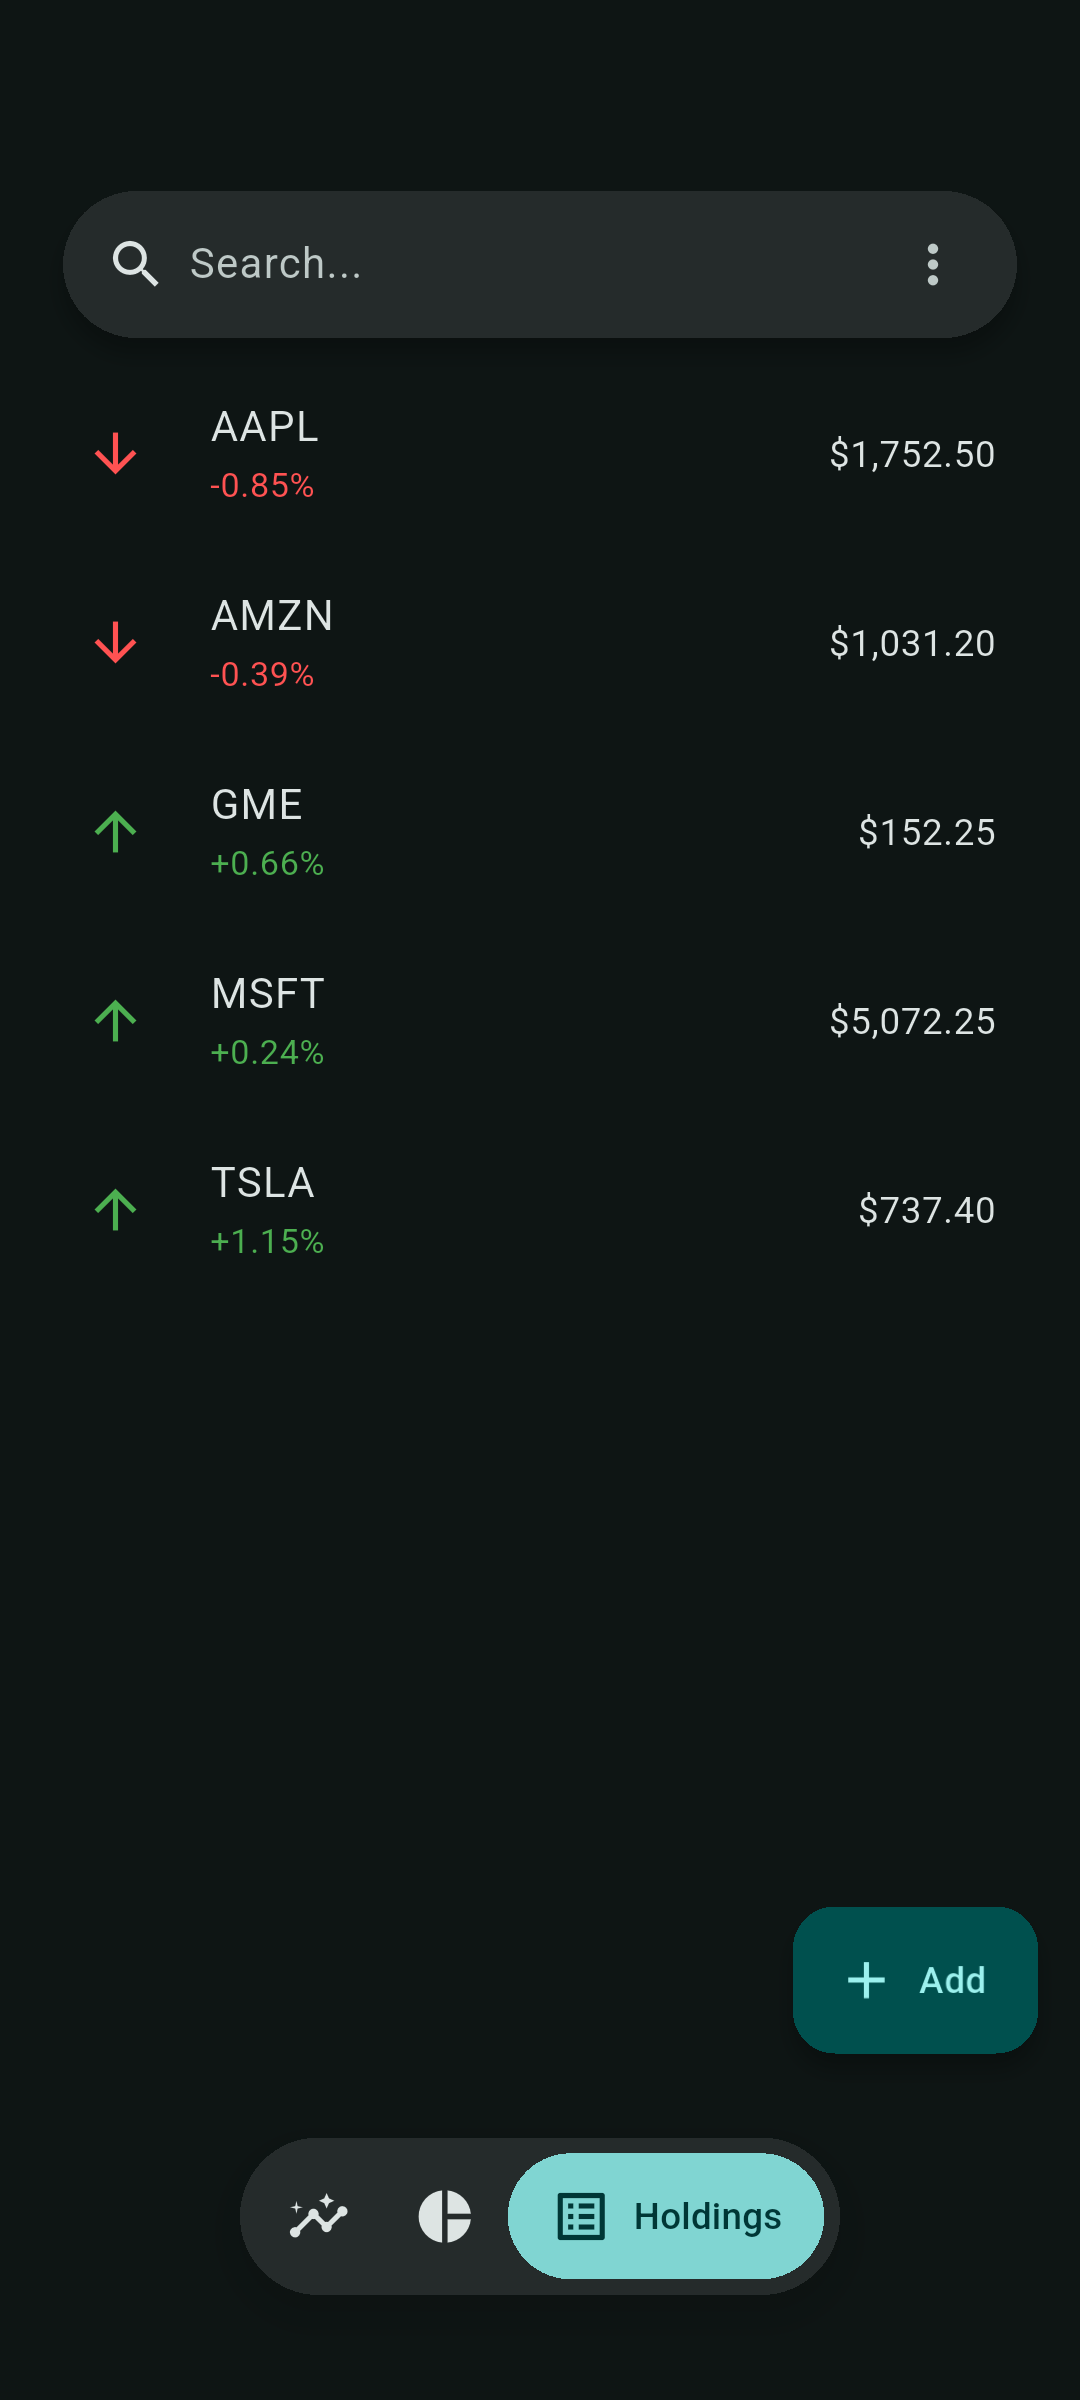
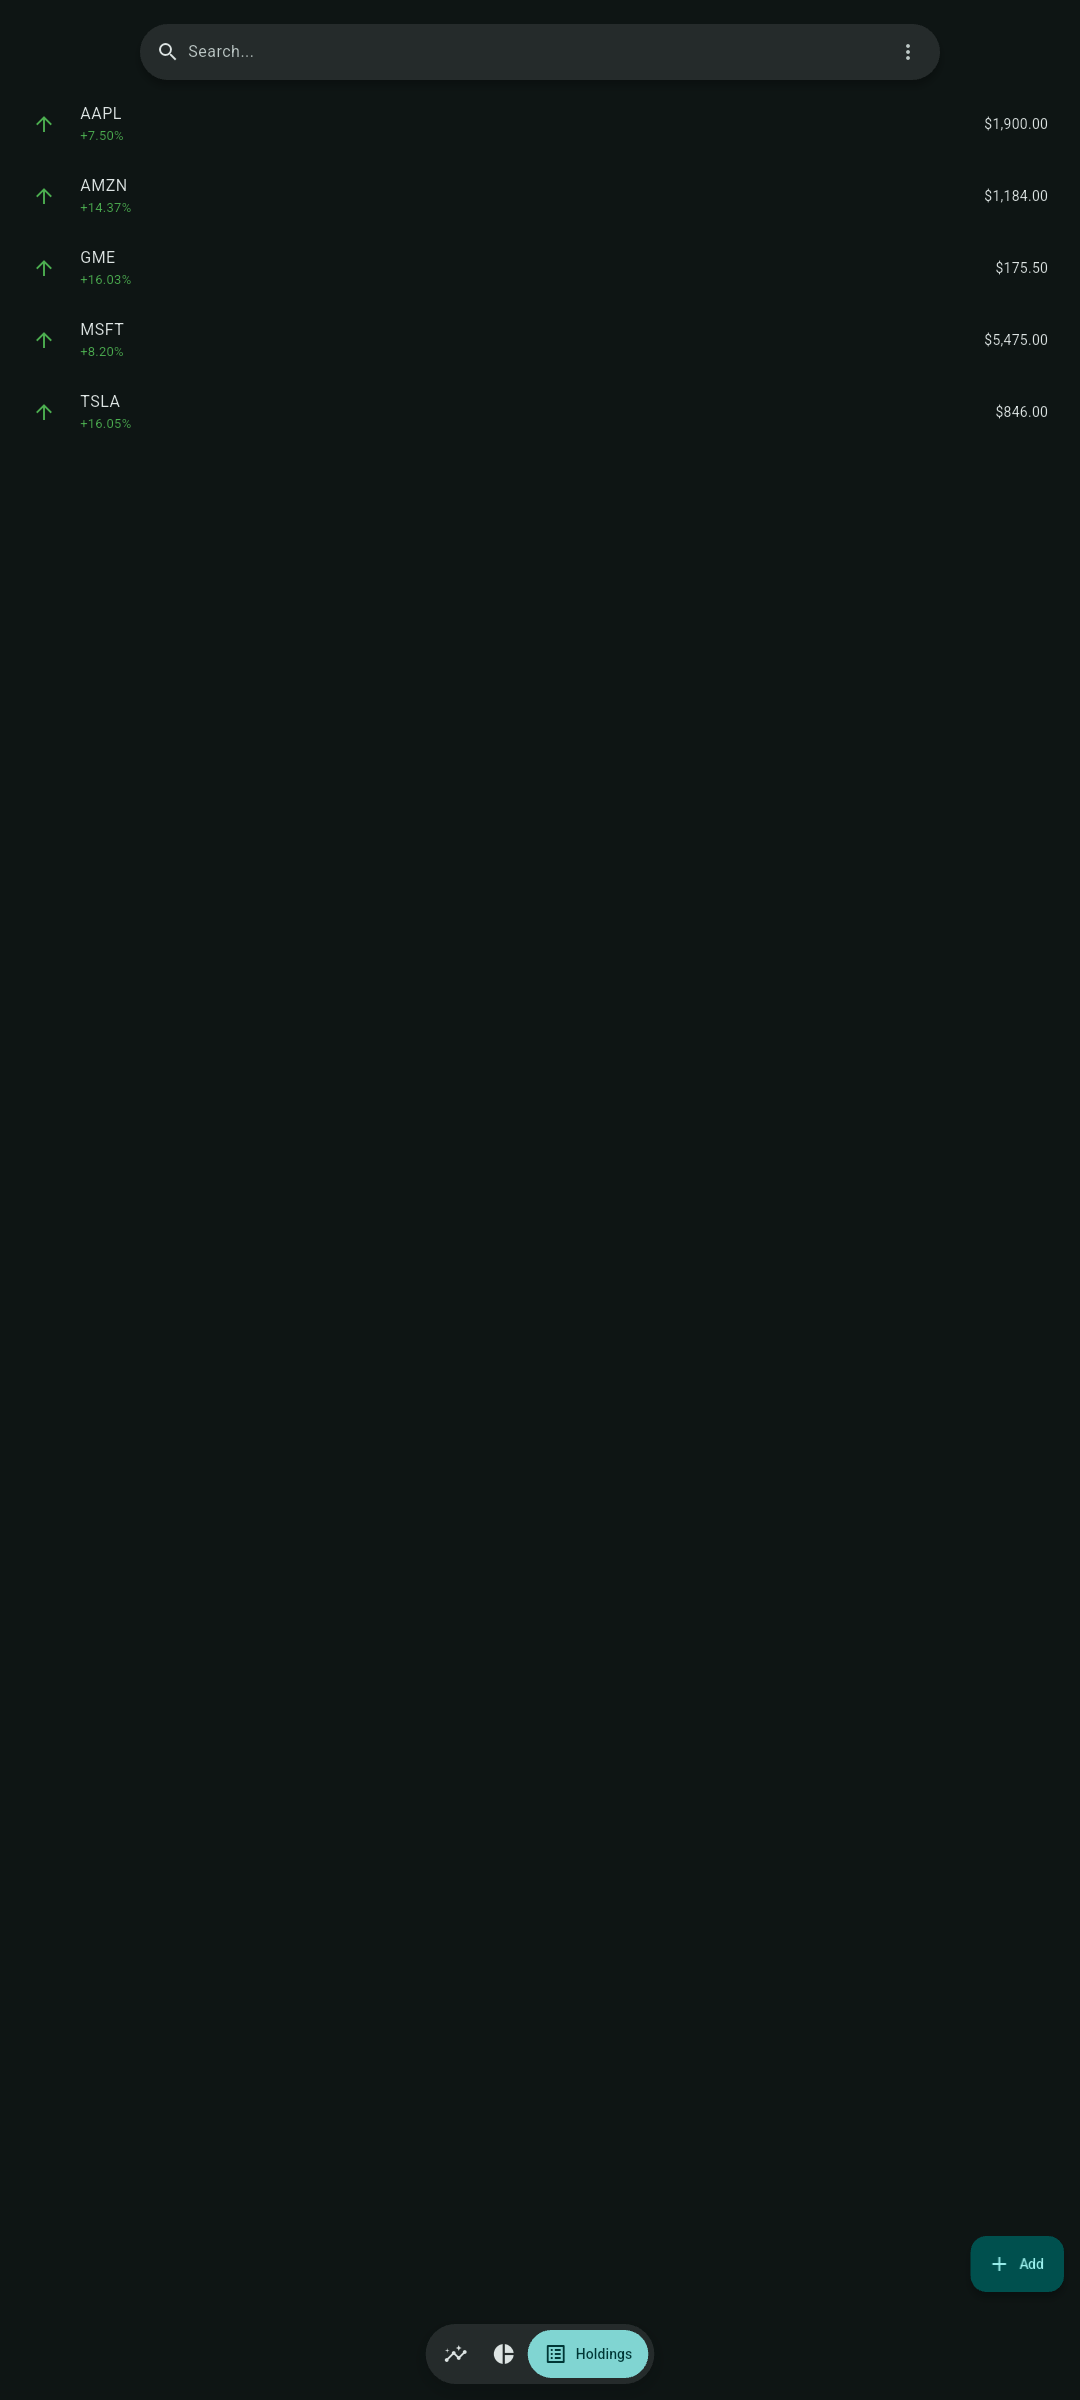
fix: populate README chart screenshot

diff --git a/integration_test/screenshot_test.dart b/integration_test/screenshot_test.dart
@@ -1,5 +1,6 @@
 import 'package:drift/drift.dart';
 import 'package:drift/native.dart';
+import 'package:fl_chart/fl_chart.dart';
 import 'package:flutter/material.dart';
 import 'package:flutter_test/flutter_test.dart';
 import 'package:integration_test/integration_test.dart';
@@ -17,10 +18,12 @@ import 'package:market_monk/utils.dart';
 import 'package:provider/provider.dart';
 import 'package:shared_preferences/shared_preferences.dart';
 
+final DateTime _mockToday = DateTime.now();
+
 List<TradesCompanion> mockTrades = [
   TradesCompanion.insert(
     quantity: 5,
-    tradeDate: DateTime.now(),
+    tradeDate: _mockToday.subtract(const Duration(days: 210)),
     tradeType: 'open',
     name: 'GameStop',
     symbol: 'GME',
@@ -28,7 +31,7 @@ List<TradesCompanion> mockTrades = [
   ),
   TradesCompanion.insert(
     quantity: 10,
-    tradeDate: DateTime.now(),
+    tradeDate: _mockToday.subtract(const Duration(days: 196)),
     tradeType: 'open',
     name: 'Apple Inc.',
     symbol: 'AAPL',
@@ -36,7 +39,7 @@ List<TradesCompanion> mockTrades = [
   ),
   TradesCompanion.insert(
     quantity: 3,
-    tradeDate: DateTime.now(),
+    tradeDate: _mockToday.subtract(const Duration(days: 182)),
     tradeType: 'open',
     name: 'Tesla Inc.',
     symbol: 'TSLA',
@@ -44,7 +47,7 @@ List<TradesCompanion> mockTrades = [
   ),
   TradesCompanion.insert(
     quantity: 15,
-    tradeDate: DateTime.now(),
+    tradeDate: _mockToday.subtract(const Duration(days: 168)),
     tradeType: 'open',
     name: 'Microsoft Corporation',
     symbol: 'MSFT',
@@ -52,7 +55,7 @@ List<TradesCompanion> mockTrades = [
   ),
   TradesCompanion.insert(
     quantity: 8,
-    tradeDate: DateTime.now(),
+    tradeDate: _mockToday.subtract(const Duration(days: 154)),
     tradeType: 'open',
     name: 'Amazon.com Inc',
     symbol: 'AMZN',
@@ -60,82 +63,97 @@ List<TradesCompanion> mockTrades = [
   ),
 ];
 
+List<CandlesCompanion> _mockCandlesFor(
+  String symbol,
+  double basePrice,
+  List<double> movement,
+) => [
+  for (var index = 0; index < movement.length; index++)
+    CandlesCompanion.insert(
+      symbol: symbol,
+      date: _mockToday.subtract(
+        Duration(days: (movement.length - 1 - index) * 14),
+      ),
+      close: Value(basePrice + movement[index]),
+    ),
+];
+
 List<CandlesCompanion> mockCandles = [
-  CandlesCompanion.insert(
-    symbol: 'GME',
-    date: DateTime.now(),
-    close: const Value(30.45),
-  ),
-  CandlesCompanion.insert(
-    symbol: 'GME',
-    date: DateTime.now().subtract(const Duration(days: 1)),
-    close: const Value(30.25),
-  ),
-  CandlesCompanion.insert(
-    symbol: 'GME',
-    date: DateTime.now().subtract(const Duration(days: 2)),
-    close: const Value(30.15),
-  ),
-  CandlesCompanion.insert(
-    symbol: 'AAPL',
-    date: DateTime.now(),
-    close: const Value(175.25),
-  ),
-  CandlesCompanion.insert(
-    symbol: 'AAPL',
-    date: DateTime.now().subtract(const Duration(days: 1)),
-    close: const Value(176.75),
-  ),
-  CandlesCompanion.insert(
-    symbol: 'AAPL',
-    date: DateTime.now().subtract(const Duration(days: 2)),
-    close: const Value(177.25),
-  ),
-  CandlesCompanion.insert(
-    symbol: 'TSLA',
-    date: DateTime.now(),
-    close: const Value(245.80),
-  ),
-  CandlesCompanion.insert(
-    symbol: 'TSLA',
-    date: DateTime.now().subtract(const Duration(days: 1)),
-    close: const Value(243.00),
-  ),
-  CandlesCompanion.insert(
-    symbol: 'TSLA',
-    date: DateTime.now().subtract(const Duration(days: 2)),
-    close: const Value(241.50),
-  ),
-  CandlesCompanion.insert(
-    symbol: 'MSFT',
-    date: DateTime.now(),
-    close: const Value(338.15),
-  ),
-  CandlesCompanion.insert(
-    symbol: 'MSFT',
-    date: DateTime.now().subtract(const Duration(days: 1)),
-    close: const Value(337.35),
-  ),
-  CandlesCompanion.insert(
-    symbol: 'MSFT',
-    date: DateTime.now().subtract(const Duration(days: 2)),
-    close: const Value(336.85),
-  ),
-  CandlesCompanion.insert(
-    symbol: 'AMZN',
-    date: DateTime.now(),
-    close: const Value(128.90),
-  ),
-  CandlesCompanion.insert(
-    symbol: 'AMZN',
-    date: DateTime.now().subtract(const Duration(days: 1)),
-    close: const Value(129.40),
-  ),
-  CandlesCompanion.insert(
-    symbol: 'AMZN',
-    date: DateTime.now().subtract(const Duration(days: 2)),
-    close: const Value(129.80),
-  ),
+  ..._mockCandlesFor('GME', 30.0, [
+    -2.4,
+    -1.1,
+    0.6,
+    -0.3,
+    1.8,
+    0.9,
+    2.6,
+    1.7,
+    3.4,
+    2.5,
+    4.2,
+    3.7,
+    5.1,
+  ]),
+  ..._mockCandlesFor('AAPL', 175.0, [
+    -8.0,
+    -4.5,
+    -6.0,
+    -1.5,
+    2.0,
+    0.5,
+    4.0,
+    7.5,
+    5.0,
+    9.0,
+    12.0,
+    10.0,
+    15.0,
+  ]),
+  ..._mockCandlesFor('TSLA', 242.0, [
+    -18.0,
+    -9.0,
+    -13.0,
+    3.0,
+    15.0,
+    8.0,
+    22.0,
+    11.0,
+    28.0,
+    18.0,
+    34.0,
+    25.0,
+    40.0,
+  ]),
+  ..._mockCandlesFor('MSFT', 337.0, [
+    -15.0,
+    -8.0,
+    -11.0,
+    -3.0,
+    5.0,
+    2.0,
+    10.0,
+    14.0,
+    11.0,
+    19.0,
+    23.0,
+    20.0,
+    28.0,
+  ]),
+  ..._mockCandlesFor('AMZN', 129.0, [
+    -7.0,
+    -3.0,
+    -5.0,
+    1.0,
+    4.0,
+    2.0,
+    7.0,
+    10.0,
+    8.0,
+    13.0,
+    16.0,
+    14.0,
+    19.0,
+  ]),
 ];
 
 enum TabBarState { chart, portfolio, holdings }
@@ -179,11 +197,7 @@ BuildContext getBuildContext(WidgetTester tester, TabBarState? tabBarState) {
 }
 
 void navigateTo({required BuildContext context, required Widget page}) {
-  Navigator.of(context).push(
-    MaterialPageRoute(
-      builder: (context) => page,
-    ),
-  );
+  Navigator.of(context).push(MaterialPageRoute(builder: (context) => page));
 }
 
 Future<void> generateScreenshot({
@@ -211,6 +225,18 @@ Future<void> generateScreenshot({
   }
 
   await tester.pumpAndSettle();
+
+  if (tabBarState == TabBarState.chart && navigateToPage == null) {
+    final chartFinder = find.byType(LineChart);
+    expect(chartFinder, findsWidgets);
+    final chart = tester.widget<LineChart>(chartFinder.first);
+    expect(
+      chart.data.lineBarsData.any((bar) => bar.spots.length > 1),
+      isTrue,
+      reason: 'The README chart screenshot must contain a visible data series.',
+    );
+  }
+
   await binding.convertFlutterSurfaceToImage();
   await tester.pumpAndSettle();
   await binding.takeScreenshot(screenshotName);
@@ -222,6 +248,10 @@ void main() {
 
   setUpAll(() async {
     app.db = Database.connect(NativeDatabase.memory());
+    for (final symbol in ['GME', 'AAPL', 'TSLA', 'MSFT', 'AMZN']) {
+      cacheSymbolMeta(symbol, 'USD');
+    }
+    allRatesFromUsd['USD'] = 1.0;
     await app.db.candles.insertAll(mockCandles);
     await app.db.trades.insertAll(mockTrades);
   });
@@ -253,10 +283,8 @@ void main() {
         binding: binding,
         tester: tester,
         screenshotName: '3_en-US',
-        navigateToPage: (context) async => navigateTo(
-          context: context,
-          page: const SettingsPage(),
-        ),
+        navigateToPage: (context) async =>
+            navigateTo(context: context, page: const SettingsPage()),
         tabBarState: TabBarState.portfolio,
       ),
     );
